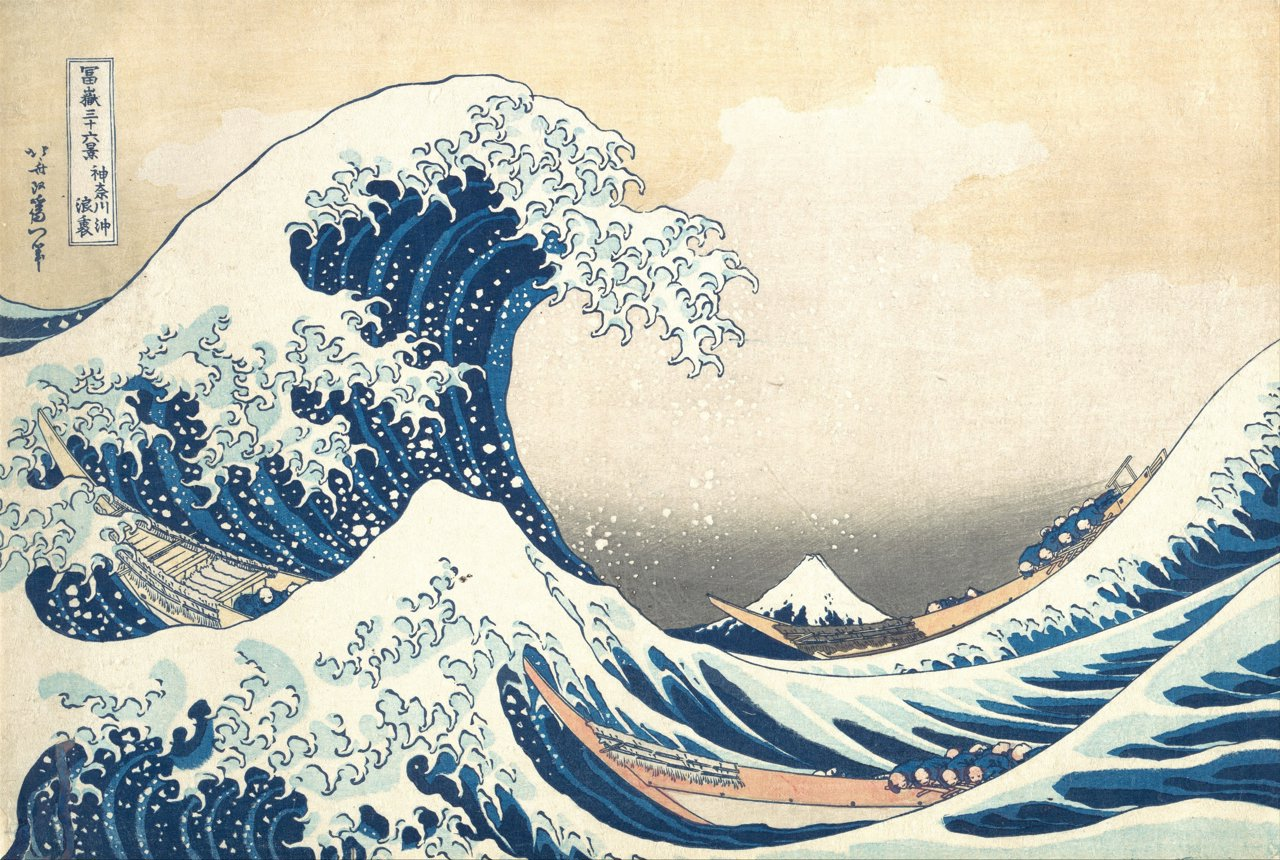
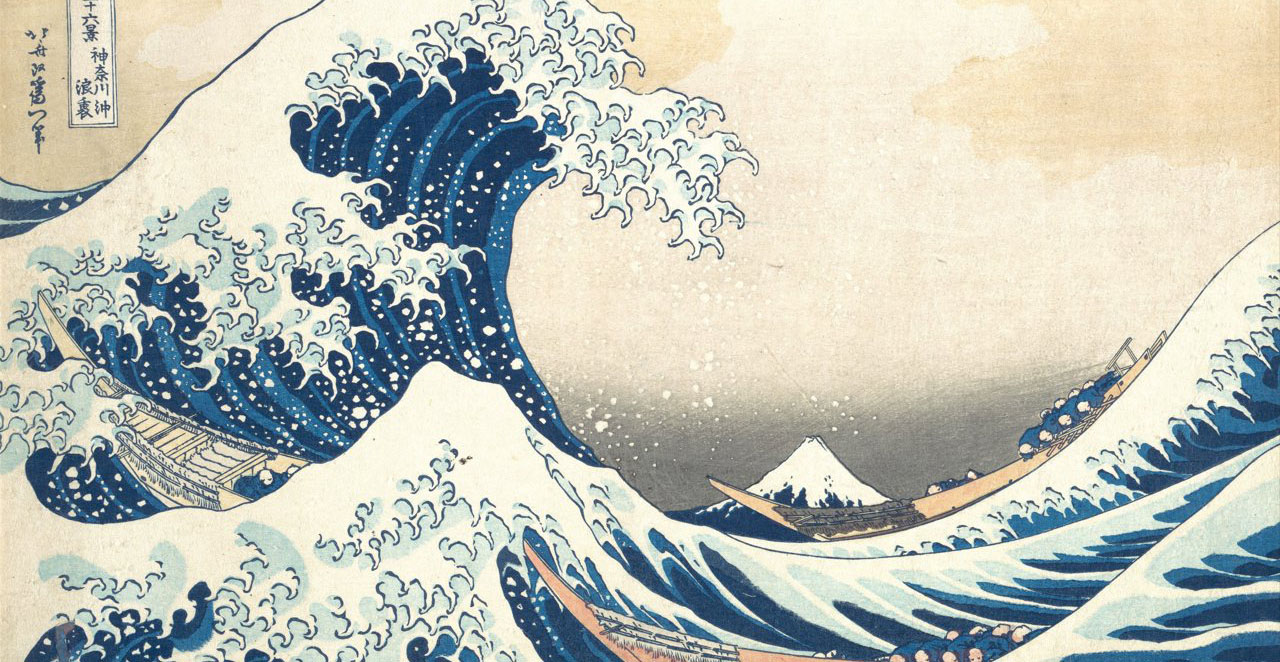
creacion dia 1 de proyecto personal2

diff --git a/ProyectoJavaScript/js/03-objetos.js b/ProyectoJavaScript/js/03-objetos.js
@@ -1,0 +1,91 @@
+"use strict";
+
+// estructura de un Objeto
+
+// let/var/const/ Nombre del objeto ={
+//     propiedad o llave del objeto : valor,
+//     mas propiedades : valor,
+//     .
+//     .
+// }
+// sintaxis de punto
+// console.log("Uso de sintaxis de punto producto.precio:", producto.precio);
+
+let producto = {
+  nombreProducto: "Pantalon",
+  precio: 33,
+  disponible: true,
+};
+
+console.log("Uso de sintaxis de punto producto.precio:", producto.precio);
+console.log(`Uso de Sintaxis de punto con template string: ${producto.precio}`);
+console.log("Uso de corchetes", producto["precio"])
+
+producto.categoria = "Joyeria";
+console.log(`Añadir categoria a producto: ${producto.categoria}`)
+
+producto.precio = 12;
+
+delete producto.disponible;
+console.log("Borramos Disponible a producto:" ,producto);
+
+const precioProducto = producto.precio;
+console.log("Creamos variable a partir de la propiedad de product:" ,precioProducto);
+
+let nombreProducto  = producto.nombreProducto;
+console.log("NombreProducto ahora es Var:",nombreProducto)
+
+
+// Destructuring saca el valor y la convierte en variable la llama igual que como se llamaba antes
+
+let {precio} = producto;
+console.log("Convertimos el valor precio en variable PRECIO:", precio);
+
+
+let playa = {
+    nombrePlaya: "MarNegro",
+    ubicacion: "Polonia",
+    recomendable: false,
+    temperaturaAgua: 15
+};
+console.log("Playa tiene:",playa)
+
+let {nombrePlaya} = playa
+let {ubicacion} = playa
+let {recomendable} = playa
+let {temperaturaAgua} = playa
+
+// console.log("Valores de playa:",nombrePlaya,ubicacion,recomendable,temperaturaAgua)
+console.log(`nombrePlaya ${nombrePlaya}`)
+console.log(`ubicacion de la playa ${ubicacion}`)
+console.log(`es recomendable: ${recomendable}`)
+console.log(`la temperatura del agua esta a: ${temperaturaAgua}`)
+
+console.log(`En la playa de ${nombrePlaya} que esta ubicada en ${ubicacion} el agua esta${temperaturaAgua} , te la recomiendo ${recomendable}`)
+
+// Object.freeze(producto)
+// producto.congelado = "intentamos congelarlo"
+// console.log("Intento añadir una propiedad tras el freeze", producto)
+//console.log("Esta congelado",object.isFrozen(producto)); AQUI PREGUNTAMOS SI EL OBJETO ESTA CONGELADO
+
+
+// Object.seal
+//     No podemos añadir Propiedad
+//     No podemos borrar Propiedades
+//     Si podemos modificar Propiedades
+
+let medidas ={
+    peso: 20,
+    alto: 140,
+    ancho: "20",
+    profundidad: "02"
+};
+
+Object.seal(medidas)
+
+medidas.peso = 1;
+
+console.log("Modificamos" , medidas)
+
+let nuevoProducto = {...playa,...medidas}
+console.log("Suma de los dos objetos:", nuevoProducto)

diff --git a/ProyectoPersonal/borrador.css b/ProyectoPersonal/borrador.css
@@ -43,12 +43,16 @@ body {
 .headerBox {
   display: flex;
   flex-direction: column;
-  background: linear-gradient(to right, rgba(247, 229, 198, 0.7), rgba(54, 133, 62, 0.3));
+  background: linear-gradient(
+    to right,
+    rgba(247, 229, 198, 0.7),
+    rgba(54, 133, 62, 0.3)
+  );
   top: 0;
   position: fixed;
   width: 100%;
+  z-index: 1;
 }
-
 
 .tituloHeader a {
   text-decoration: none;
@@ -57,16 +61,7 @@ body {
   margin-left: 30px;
 }
 
-/* Seccion del slide */
 
-.imgHeader {
-  width: 100%;
-  height: 100vh;
-  background-image: url(./img/ola.jpg);
-  background-size: cover;
-  background-repeat: no-repeat;
-  background-position: top;
-}
 
 /* Seccion del Nav */
 .menu {
@@ -76,27 +71,53 @@ body {
   flex-direction: row;
   align-items: center;
   justify-content: center;
-  background: linear-gradient(to right, rgba(247, 229, 198, 0.7), rgba(54, 133, 62, 0.3));
-
+  background: linear-gradient(
+    to right,
+    rgba(247, 229, 198, 0.7),
+    rgba(54, 133, 62, 0.3)
+  );
 }
 
-.menu a{
+.menu a {
   margin: 0px 30px;
   text-decoration: none;
-  color:#36853e;
-  
+  color: #36853e;
 }
 
-h1{
+h1 {
   text-align: center;
 }
 
-
-
-
-
-
-
-
 /* Imagines con slides */
+
+body,
+html {
+  margin: 0;
+  padding: 0;
+  height: 100%;
+  /* overflow: hidden; */
+}
+
+.slider {
+  display: flex;
+  transition: transform 0.5s ease-in-out;
+  width: 100%;
+  height: 90vh;
+  align-items: start;
+  overflow: hidden; /* ponemos el overflow:hidden aqui para que no afecte a todo el body*/
+}
+
+.slide {
+  flex: 1;
+  min-width: 100%;
+  box-sizing: border-box;
+  overflow: hidden;
+  position: relative;
+}
+
+img {
+  width: 100%;
+  height: 100%;
+  object-fit: cover;
+}
 

diff --git a/ProyectoPersonal/borrador.html b/ProyectoPersonal/borrador.html
@@ -6,6 +6,10 @@
     <meta name="viewport" content="width=device-width, initial-scale=1.0">
 
 
+    <!-- icono -->
+    <link rel="icon" href="./icono/pen-fancy-solid.svg" type="image/svg+xml">
+
+
     <link rel="preconnect" href="https://fonts.googleapis.com">
     <link rel="preconnect" href="https://fonts.gstatic.com" crossorigin>
     <link href="https://fonts.googleapis.com/css2?family=Skranji&display=swap" rel="stylesheet">
@@ -28,8 +32,21 @@
 
     </header>
 
-    <section class="imgHeader">
-    </section>
+
+    <div class="slider">
+        <div class="slide" id="slide1">
+            <img src="./img/ola.jpg" alt="Imagen 1">
+        </div>
+        <div class="slide" id="slide2">
+            <img src="./img/arte-y-cultura-japonesa.jpg" alt="Imagen 2">
+        </div>
+        <div class="slide" id="slide3">
+            <img src="./img/mujeres.jpg" alt="Imagen 3">
+        </div>
+    </div>
+    <script src="script.js"></script>
+
+
 
     <nav>
         <div class="menu">

diff --git a/ProyectoJavaScript/index.html b/ProyectoJavaScript/index.html
@@ -1,19 +1,23 @@
 <!DOCTYPE html>
 <html lang="en">
+
 <head>
     <meta charset="UTF-8">
     <meta name="viewport" content="width=device-width, initial-scale=1.0">
 
-    <link rel="preload" href="../ProyectoJavaScript/style.css" as ="style">
+    <link rel="preload" href="../ProyectoJavaScript/style.css" as="style">
     <link rel="stylesheet" href="../ProyectoJavaScript/style.css">
     <title>JavaScript</title>
 </head>
+
 <body>
 
-   <script src="./js/01-variables.js">
+    <!-- <script src="./js/01-variables.js">
    </script>
 
-   <script src="./js/02-tipos-de-datos.js"> </script>
-    
+   <script src="./js/02-tipos-de-datos.js"> </script> -->
+    <script src="./js/03-objetos.js"></script>
+
 </body>
+
 </html>

diff --git a/ProyectoPersonal/script.js b/ProyectoPersonal/script.js
@@ -1,0 +1,23 @@
+
+
+let currentSlide = 0;
+const slides = document.querySelectorAll('.slide');
+
+function showSlide(index) {
+    slides.forEach(slide => {
+        slide.style.transform = `translateX(-${index * 100}%)`;
+    });
+}
+
+function nextSlide() {
+    currentSlide = (currentSlide + 1) % slides.length;
+    showSlide(currentSlide);
+}
+
+function prevSlide() {
+    currentSlide = (currentSlide - 1 + slides.length) % slides.length;
+    showSlide(currentSlide);
+}
+
+setInterval(nextSlide, 3000); // Cambia la imagen automáticamente cada 3 segundos
+
